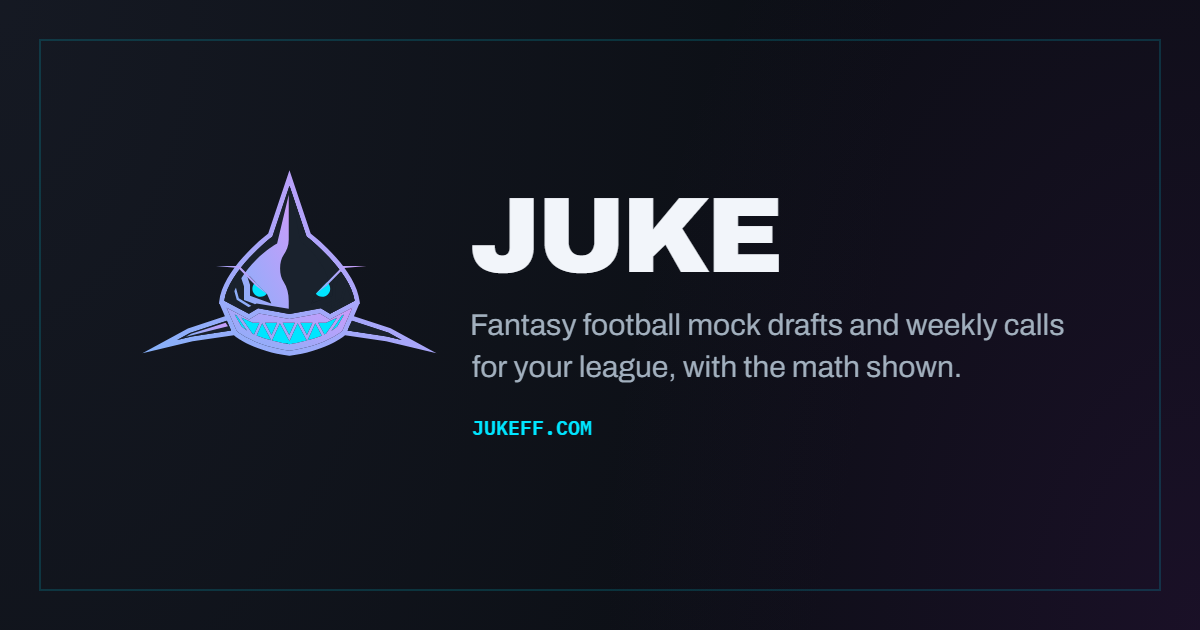
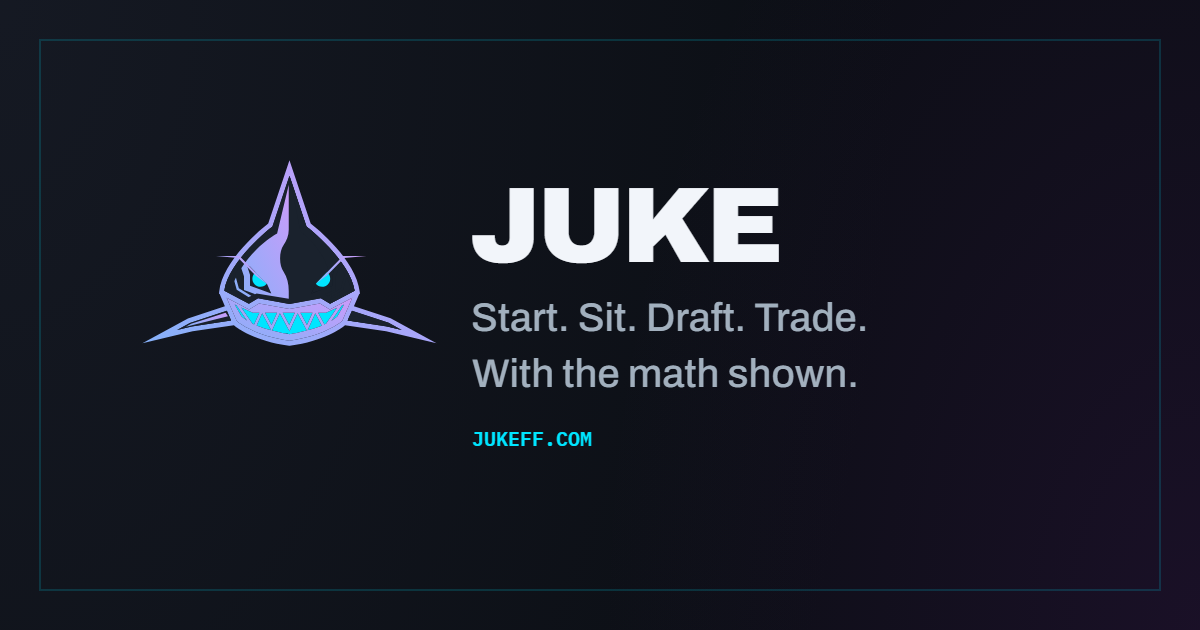
Card tagline "Start. Sit. Draft. Trade. With the math shown.", and U.S. "shows its work"
The link-preview card's line is now two short lines, set at 40px rather
than a 30px sentence. A preview is usually drawn at about a quarter of
the card's size, where the old sentence came out around 8px. The line
breaks are written down rather than wrapped, and the generator refuses a
line wider than the column. The text block and the mark are re-centered
on the designed card's own center, so the gaps measured off that card
hold at any tagline size.

"Shows its working" is British idiom, which the spelling pass could not
catch because it is not a spelling. The homepage meta and og
descriptions now say "shows its work". The wire and trade tools' section
labels, which screen readers read aloud, say "The math" instead of "The
working".

og:image:alt matches the new card.

diff --git a/web/index.html b/web/index.html
@@ -8,7 +8,7 @@
        likes, and a link pasted into Slack or iMessage renders as a bare URL.
        og:image has to be absolute, so it points at the live domain even when
        you are testing locally. -->
-  <meta name="description" content="Fantasy football with the math shown: free mock drafts with a grade that shows its working, and lineup, waiver and trade calls for your real league.">
+  <meta name="description" content="Fantasy football with the math shown: free mock drafts with a grade that shows its work, and lineup, waiver and trade calls for your real league.">
   <link rel="canonical" href="https://jukeff.com/">
   <meta name="theme-color" content="#0B0E14">
 
@@ -16,11 +16,11 @@
   <meta property="og:site_name" content="Juke">
   <meta property="og:url" content="https://jukeff.com/">
   <meta property="og:title" content="Juke &middot; Fantasy Football">
-  <meta property="og:description" content="Fantasy football with the math shown: free mock drafts with a grade that shows its working, and lineup, waiver and trade calls for your real league.">
+  <meta property="og:description" content="Fantasy football with the math shown: free mock drafts with a grade that shows its work, and lineup, waiver and trade calls for your real league.">
   <meta property="og:image" content="https://jukeff.com/og-image.png">
   <meta property="og:image:width" content="1200">
   <meta property="og:image:height" content="630">
-  <meta property="og:image:alt" content="The Juke shark beside the Juke wordmark on obsidian, with the line: fantasy football mock drafts and weekly calls for your league, with the math shown.">
+  <meta property="og:image:alt" content="The Juke shark beside the Juke wordmark on obsidian, with the line: Start. Sit. Draft. Trade. With the math shown.">
   <meta name="twitter:card" content="summary_large_image">
 
   <!-- The theme is set before anything paints, rather than in app.js at the

diff --git a/web/src/components/v3/calls/WireTool.jsx b/web/src/components/v3/calls/WireTool.jsx
@@ -321,7 +321,7 @@ export default function WireTool({ league, snapshot, status, reason, onRetry, sa
       </div>
 
       {/* ---- The working ---- */}
-      <section aria-label="The working" className="grid gap-4">
+      <section aria-label="The math" className="grid gap-4">
         <div className="overflow-x-auto">
           <Seg label="Wire views" value={view} onChange={setView} options={tabs} className="min-w-max" />
         </div>

diff --git a/web/src/components/v3/calls/TradeTool.jsx b/web/src/components/v3/calls/TradeTool.jsx
@@ -386,7 +386,7 @@ export default function TradeTool({ league, snapshot, status, reason, onRetry, s
         </Sheet>
       </div>
 
-      <section aria-label="The working" className="grid gap-4">
+      <section aria-label="The math" className="grid gap-4">
         <div className="overflow-x-auto">
           <Seg
             label="Trade views"
